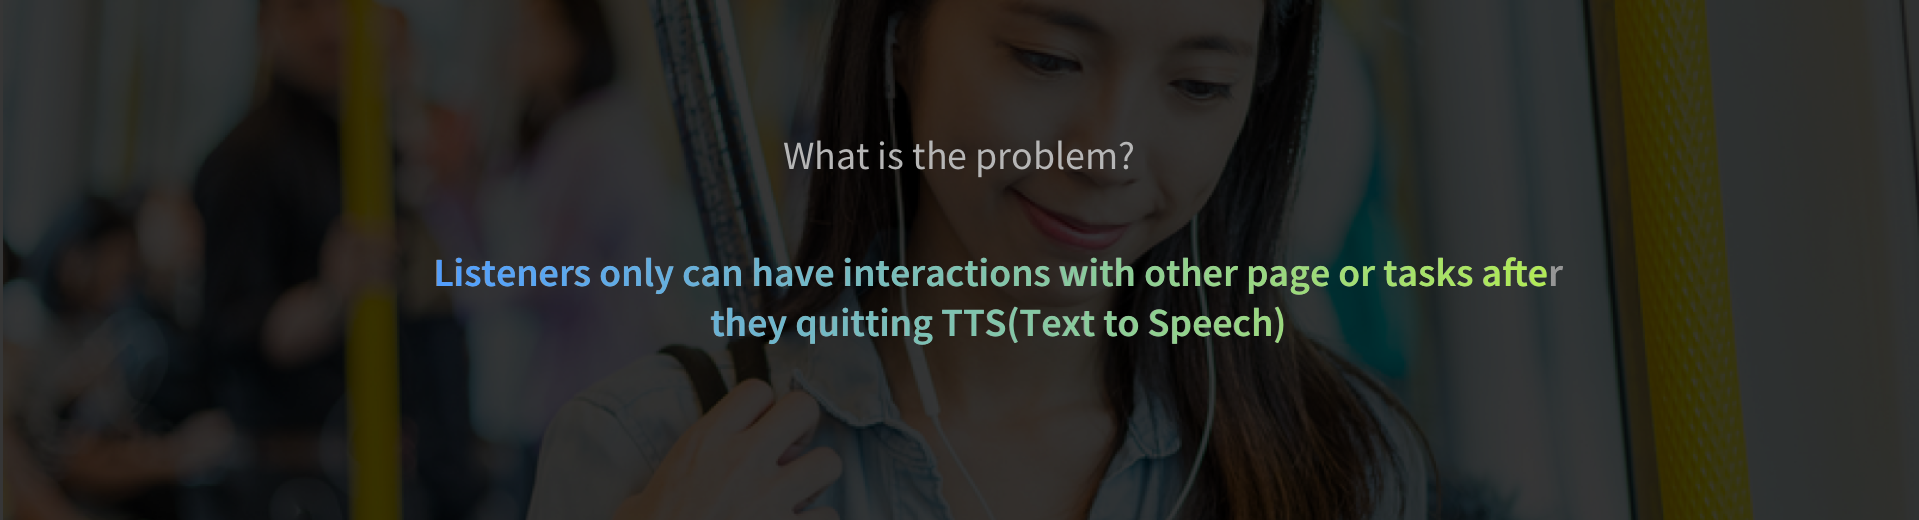
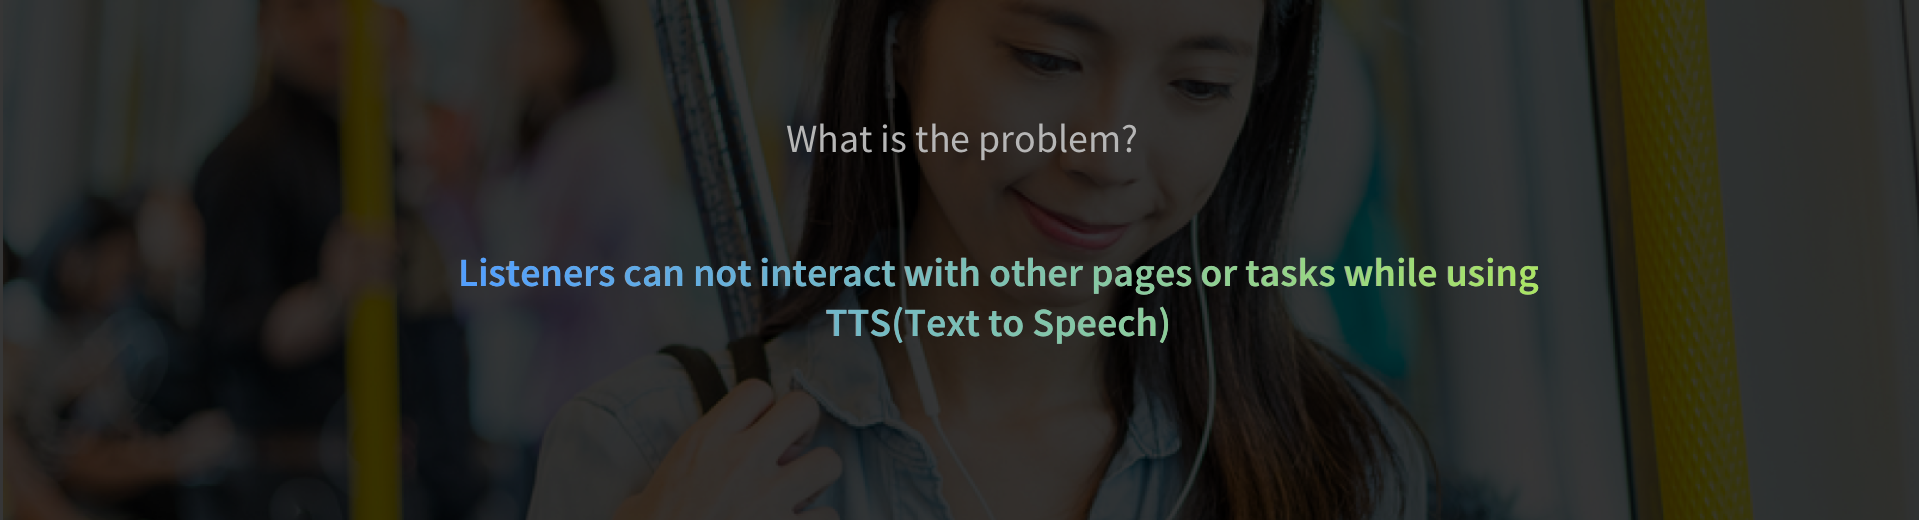
tts image

Changed region(s): [[0.2152, 0.4923, 0.8301, 0.5538], [0.3689, 0.5846, 0.6764, 0.6769], [0.3997, 0.2462, 0.5842, 0.3385]]

diff --git a/projects/search.html b/projects/search.html
@@ -91,7 +91,21 @@
         <section class="text-center">
             <img src="../assets/img/search/2.png" class="img-fluid" width="1040px" alt="...">
         </section>
-        <section class="text-content border px-5 pt-5 pb-4">
+    </div>
+
+    <div>
+        <img src="../assets/img/tts/0.1.png" class="img-fluid" width="100%" alt="...">
+    </div>
+    <div>
+        <img src="../assets/img/tts/0.2.png" class="img-fluid" width="100%" alt="...">
+    </div>
+    <div>
+        <img src="../assets/img/tts/0.3.png" class="img-fluid" width="100%" alt="...">
+    </div>
+
+    <div class="container">
+
+        <!-- <section class="text-content border px-5 pt-5 pb-4">
             <h2>problem</h2>
             <p class="text-emphasize">Online readers have limited searching functions and also frustrated about search
                 recommendation and result.</p>
@@ -123,7 +137,7 @@
                     Decrease user nagative feedback about searching
                 </li>
             </ul>
-        </section>
+        </section> -->
 
         <section class="text-center"><img src="../assets/img/search/finalsearch.gif" width="1040px" class="img-fluid"
                 alt="...">
